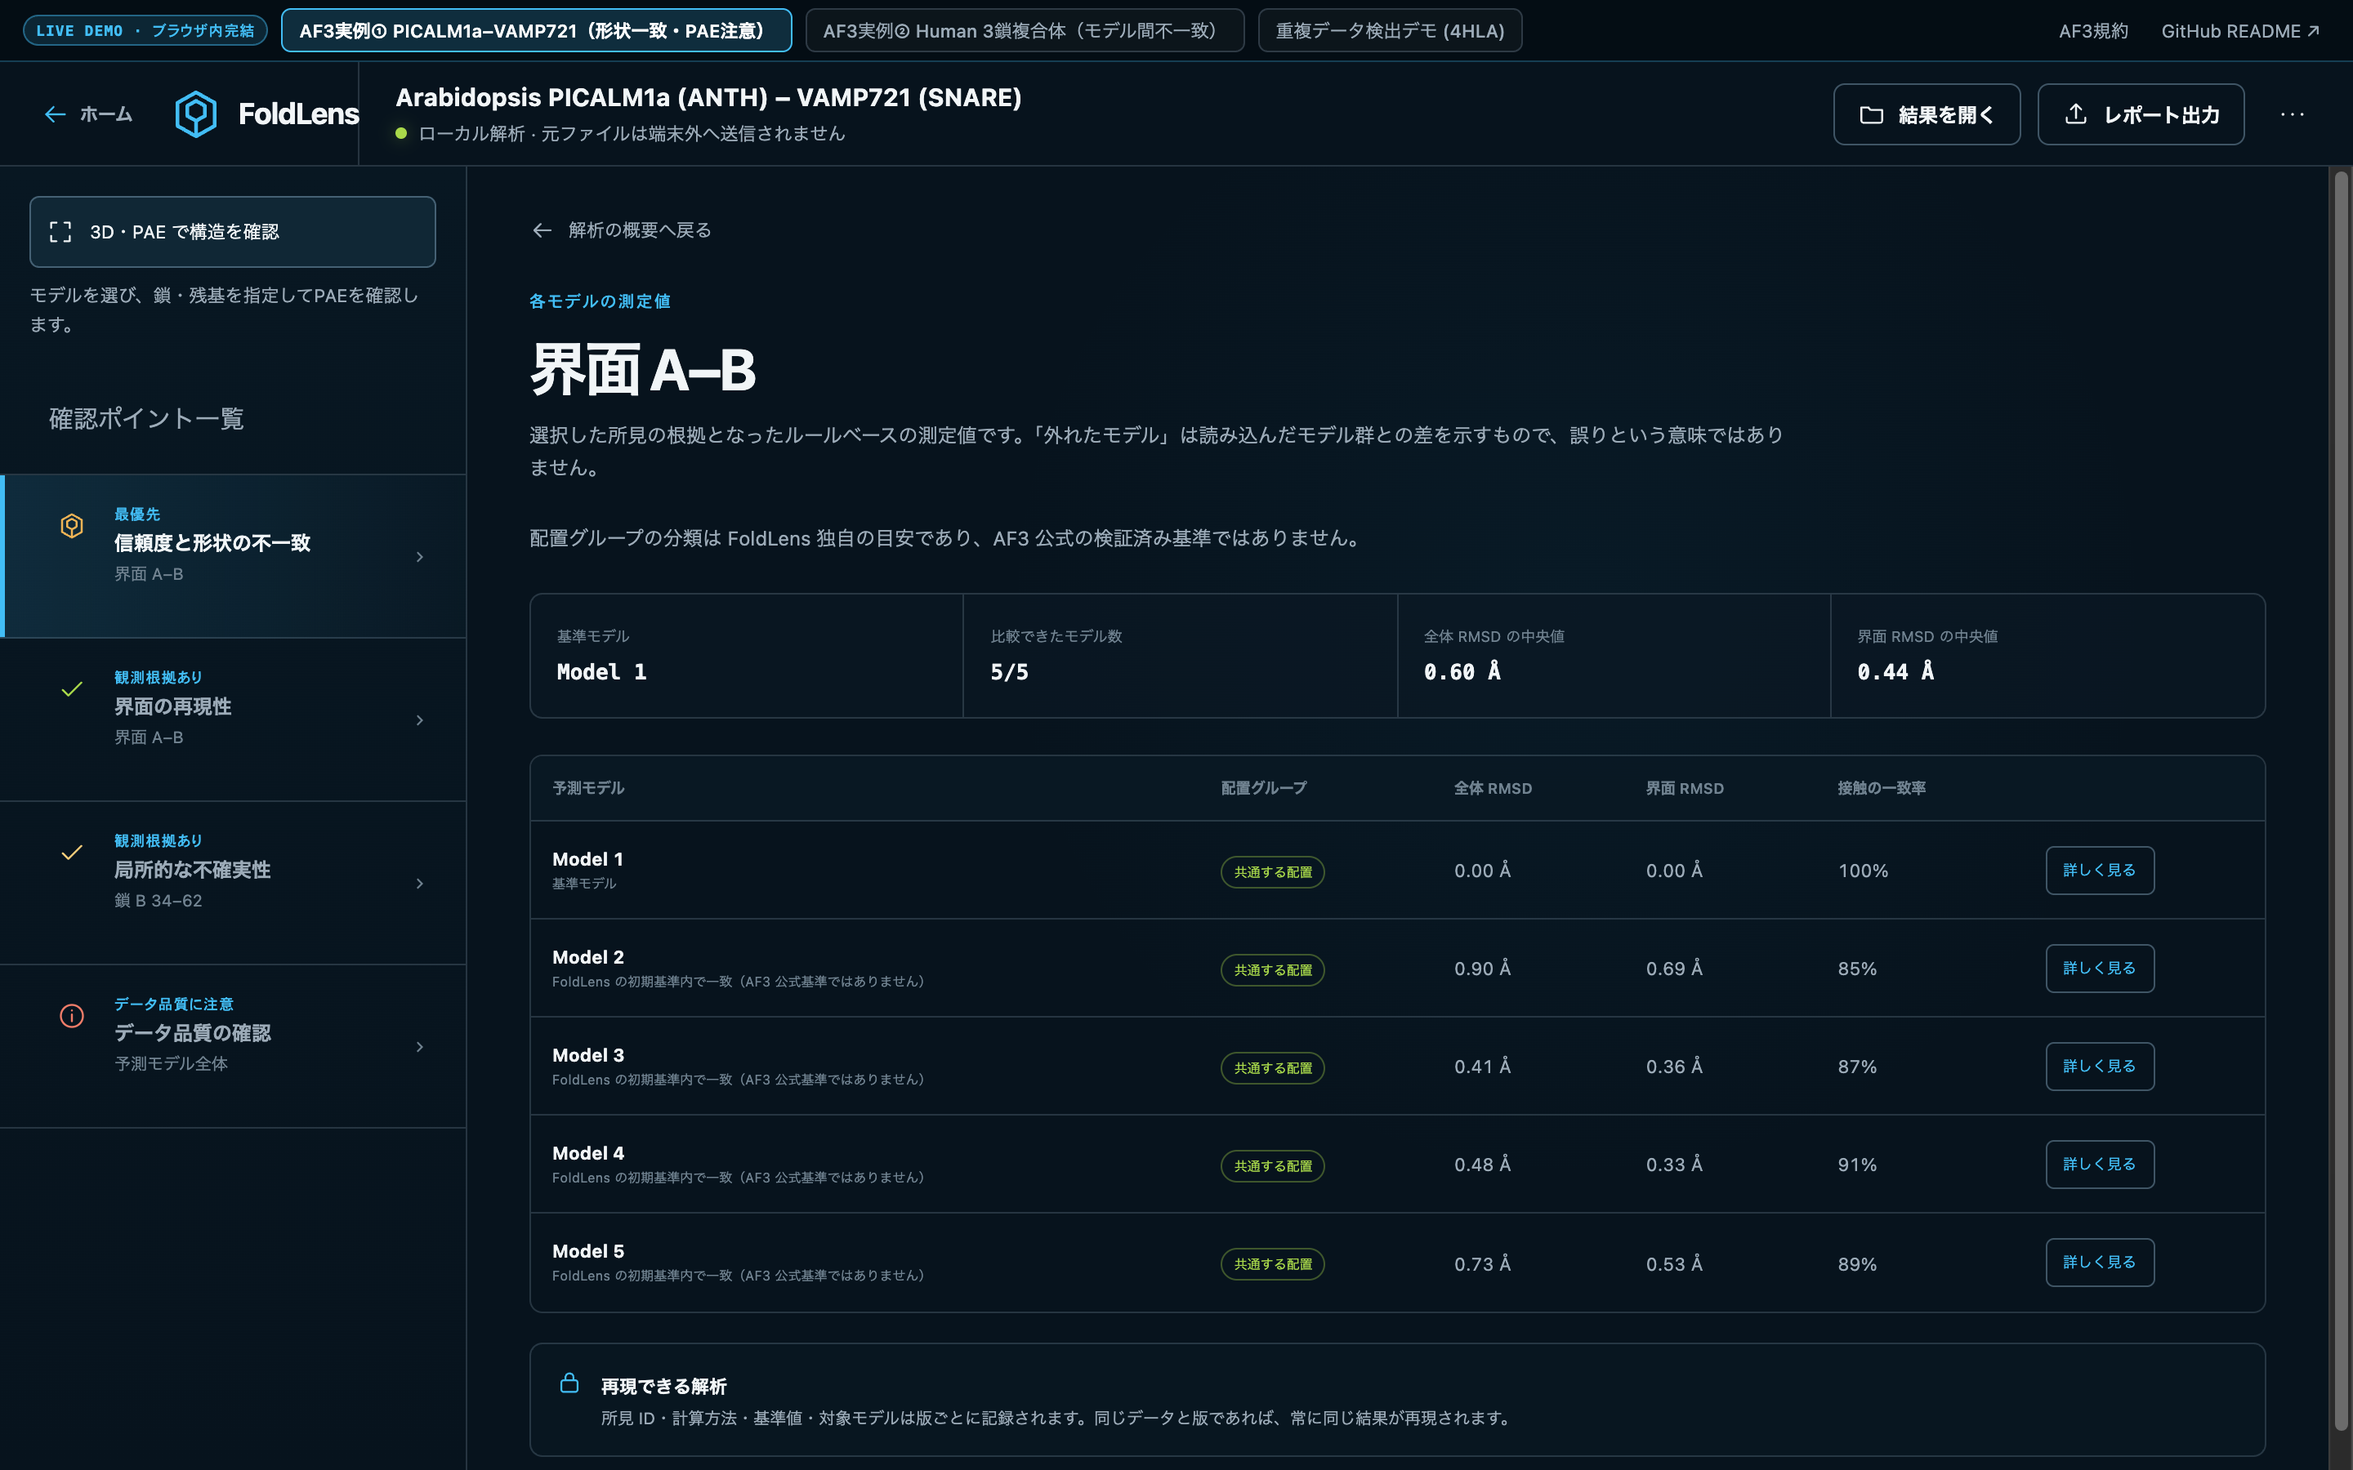
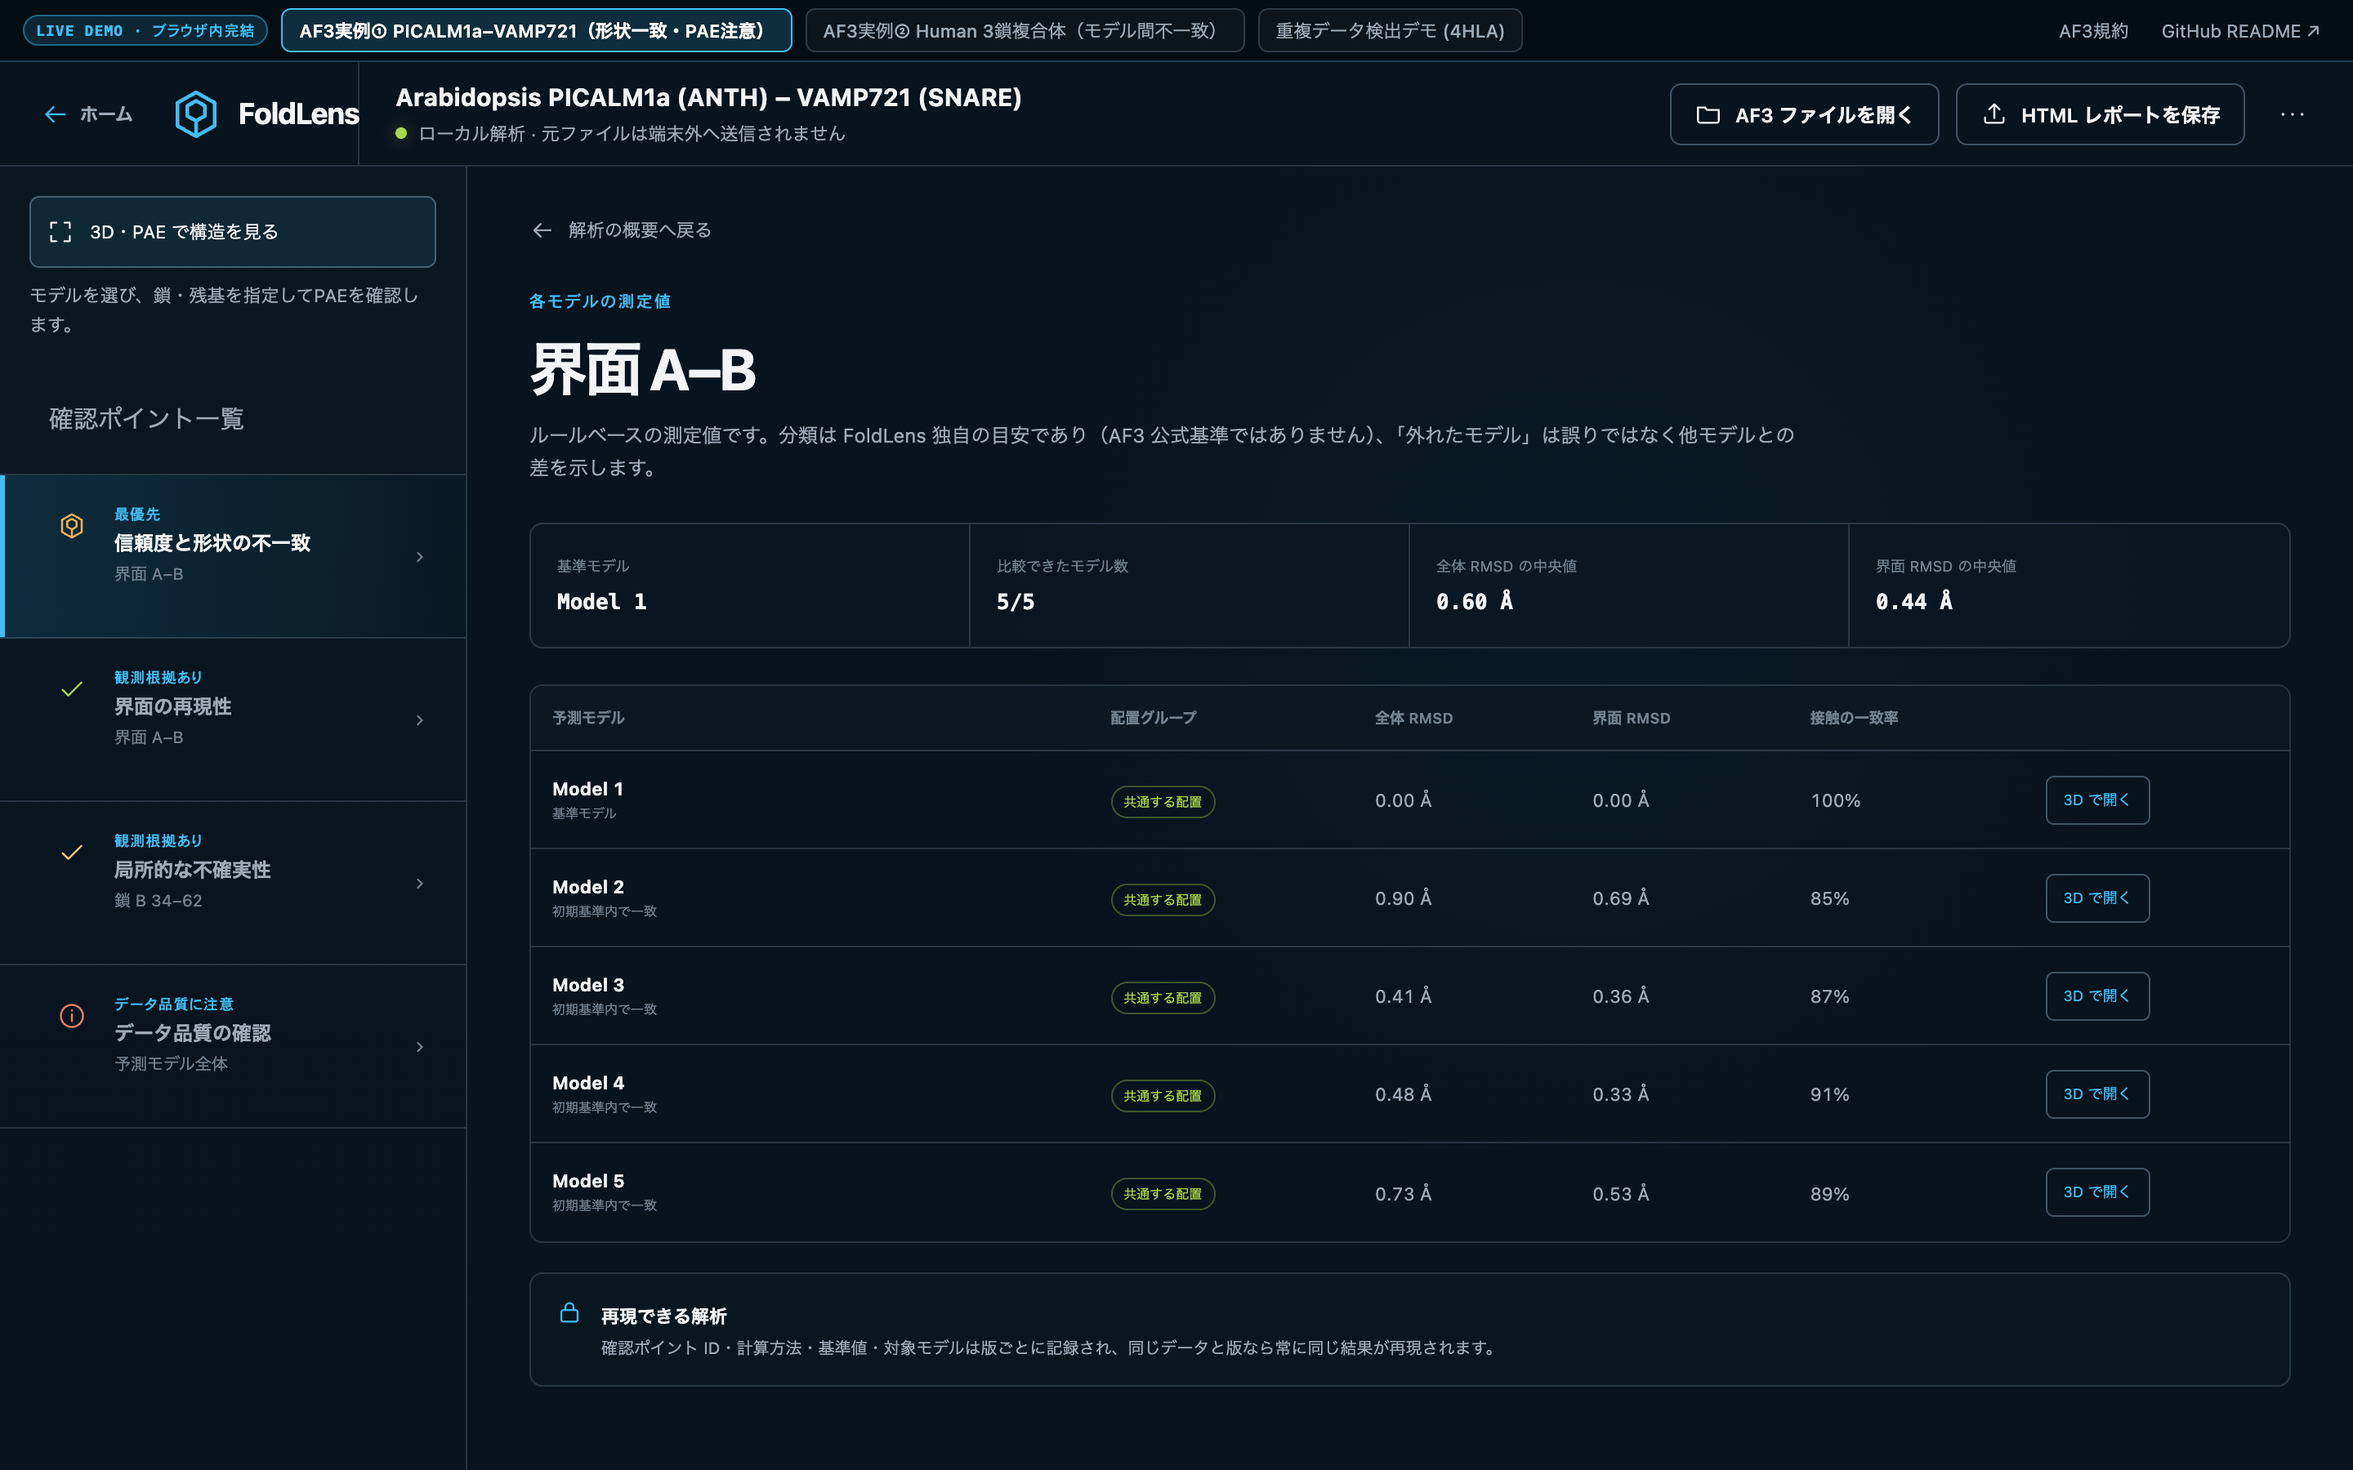
Add UX writing technical note, 8-point checklist, and tightened UI screenshots

diff --git a/docs/ux-writing-in-scientific-ai.md b/docs/ux-writing-in-scientific-ai.md
@@ -1,0 +1,128 @@
+# AI 時代の科学ソフトウェア開発における UX ライティング — 文章を「インターフェースの品質特性」として設計する
+
+> **概要**：AlphaFold 3 検証ワークスペース [FoldLens](https://github.com/Shunsuke-max/foldlens-portfolio)（[ライブデモ](https://shunsuke-max.github.io/foldlens-portfolio/)）の開発・公開を通じて得た、UX ライティングとコンテンツデザインの設計原則、実画面での改善事例、および開発工程に組み込んでいる 8 項目の文章品質チェックリストをまとめた技術ノートです。
+
+---
+
+## 1. 文章は「説明」ではなく、インターフェースそのもの
+
+ソフトウェアにおいて、文章は機能のあとに添える補足説明ではなく、**ユーザーとシステムを接続するインターフェースそのもの**です。
+
+どれほど高度なアルゴリズムや AI モデルが動いていても、利用者が次の 3 点を直感的に理解できなければ、その技術の価値は現場に届きません。
+
+1. **今ここで何ができるのか**
+2. **いま何が起きているのか**
+3. **次に何をすればよいのか**
+
+この領域は **UX ライティング（UX Writing）** や **コンテンツデザイン（Content Design）** として体系化されていますが、個人開発や研究向けツールでは後回しになりがちです。私自身、FoldLens を外部公開する過程で実際の画面を徹底的に見直し、文章の質がプロダクトの価値を直接左右することを実感しました。
+
+---
+
+## 2. 文章がプロダクトの品質を左右する 3 つの理由
+
+### ① 認知負荷を減らす
+同じ処理を実行するボタンや通知でも、書き方ひとつで理解にかかる労力が大きく変わります。
+
+| 分かりにくい表現（システム視点） | 分かりやすい表現（利用者視点） |
+| :--- | :--- |
+| 処理を実行する | 分析を開始する |
+| データの永続化 | 保存する |
+| オペレーションを中断する | キャンセルする |
+| 認証情報が無効です | もう一度ログインしてください |
+| データ取得処理が正常終了しました | データを取得しました |
+| 入力値が許容範囲外です | 1〜100 の数字を入力してください |
+
+一つひとつは小さな差ですが、画面全体で積み重なると使いやすさに決定的な差が生まれます。優れたソフトウェアでは、利用者が「操作方法の解読」ではなく**本来の研究・業務の判断**に思考力を使えます。
+
+### ② 文章の曖昧さは、設計の曖昧さを映す
+これは開発者にとって特に重要な視点です。ある機能を説明しようとして、
+
+> 「ユーザーの入力に基づいて適切な情報を統合的に提供する機能」
+
+のように抽象的な言葉しか出てこない場合、そもそも機能の目的や境界が設計段階で曖昧なままになっている可能性が高いです。反対に、
+
+> 「服用している薬の副作用を調べる」
+
+と具体的に言い切れるとき、開発者も利用者も機能の目的を共有できます。**自然で明確な文章を書くことは、プロダクト設計そのものを検証する行為**でもあります。
+
+### ③ 信頼性を左右する（特に生命科学・医療・AI 領域）
+文章に次のような違和感があると、利用者は無意識にシステム全体の精度や安全性にも疑問を抱きます。
+
+- 画面によって同じ概念の呼び方が違う
+- 直訳調や英語混じりの不自然な日本語になっている
+- エラーの原因や対処法が示されない
+- 必要以上に長い説明や重複する注意書きがある
+- 実際の機能や科学的根拠以上のことができるように書かれている
+
+創薬・医療・生命科学のように**判断の正確さと根拠の透明性が求められる領域**では、言葉の精度はそのままプロダクトの信頼性に直結します。
+
+---
+
+## 3. 実例：FoldLens の UI 推敲で何が変わったか
+
+FoldLens のライブデモを日本語化した当初、機能は正しく動いていたものの、画面上には英語混じりの直訳文・重複した注意書き・抽象的なボタン文言が残っていました。UX ライティングの観点で全画面を棚卸しした結果、次のように大きく見通しが改善しました。
+
+| 対象箇所 | 改善前 | 改善後 | 適用した観点 |
+| :--- | :--- | :--- | :--- |
+| **最重要見出し** | `この予測群で、まず確認すべきこ` / `と`（2行目で1文字孤立） | `まず確認すべきポイント` | 一読理解・レイアウト配慮 |
+| **データ品質の警告文** | `Pairwise measurementは確認できますが、現在の決定論的thresholdでは、1つの安定した配置をensemble consensusとして支持できません。` | `各モデル間の測定値は確認できますが、現在の初期基準では、過半数が一致する安定した配置は見つかりませんでした。` | 不要な英単語・直訳調の解消 |
+| **モデル比較表の行ボタン** | `詳しく見る` | `3D で開く` | 次行動の明確化 |
+| **詳細画面の界面解析ボタン** | `このinterfaceを解析` | `界面の信頼度を診断` | 専門語の整理・次行動の明確化 |
+| **ヘッダーの主要ボタン** | `結果を開く` / `レポートを書き出す` | `AF3 ファイルを開く` / `HTML レポートを保存` | 抽象の具体化 |
+| **モデル比較表の注意書き** | 2 段落＋全行に `（AF3 公式基準ではありません）` を反復 | 要点を 1 行に統合し、各行は `初期基準内で一致` / `初期基準外` に簡潔化 | 冗長文の削ぎ落とし（情報量の適正化） |
+| **PAE 軸と説明** | `縦軸 = scored residue · 横軸 = alignment reference` | `縦軸：評価対象の残基 ／ 横軸：整列の基準残基` | 利用者視点・専門用語の日本語化 |
+
+実際の画面は [FoldLens ライブデモ](https://shunsuke-max.github.io/foldlens-portfolio/) でそのまま確認できます。
+
+---
+
+## 4. 開発者側の文章と、AI 時代における言語設計の重要性
+
+文章の品質が問われるのは UI だけではありません。
+
+| 開発領域 | 文章が果たす役割 |
+| :--- | :--- |
+| **README** | プロジェクトの目的・検証結果・限界を短時間で伝える |
+| **要件定義** | 何を実現し、何を対象外とするかを明確にする |
+| **変数名・関数名** | コードの意図と責任範囲を伝える |
+| **API ドキュメント** | 正しい利用方法と制約を明確にする |
+| **Issue / Pull Request** | 解決する問題と変更理由を共有する |
+| **エラーメッセージ** | 問題の原因と次の対処法を案内する |
+| **テストケース** | 期待する仕様を検証可能な形で明文化する |
+
+AI によってコード生成コストが下がるほど、開発の**入口**と**出口**にある言語の重要性はむしろ高まります。
+
+```mermaid
+flowchart LR
+    A["1. 課題の理解"] --> B["2. 課題と要件の言語化<br/>(入口の言語)"]
+    B --> C["3. 人間・AIによる実装"]
+    C --> D["4. UI・文章・ドキュメント<br/>(出口の言語)"]
+    D --> E["5. ユーザーへの価値提供"]
+```
+
+入口の言語化が曖昧なら意図しないものが作られ、出口の文章が分かりにくければ、せっかく作った技術も正しく使われません。
+
+---
+
+## 5. 開発工程に組み込む 8 つの文章品質基準
+
+私は現在、コードの自動テストや CI と同様に、UI 文言・README・ドキュメントに対しても以下の 8 項目でチェックする運用を取り入れています（再利用可能なチェックリスト：[ux-writing-checklist.md](ux-writing-checklist.md)）。
+
+1. **一読して意味が理解できるか**
+2. **不必要な専門用語・未翻訳語を使っていないか**
+3. **抽象的な表現を具体化できないか**
+4. **同じ概念に同じ用語を使っているか**
+5. **ユーザーが次に取るべき行動が明確か**
+6. **実際の機能・科学的限界と説明が一致しているか**
+7. **削除しても意味が変わらない冗長な文章がないか**
+8. **開発者の都合ではなく、利用者の視点で書かれているか**
+
+---
+
+## おわりに
+
+文章を良くすることは、単に「流暢な日本語にする」ことではありません。流暢でも意味が曖昧な文章や、実態以上に大きく見せる文章は、かえってプロダクトの信頼を損ないます。
+
+**文章の自然さ、意味の正確さ、概念の一貫性、情報量の適切さ。**
+
+この 4 つを、コードの可読性・保守性やテストカバレッジと同じ**ソフトウェアの品質特性**として設計・レビューし続けることを、自分の開発原則に据えています。

diff --git a/docs/ux-writing-checklist.md b/docs/ux-writing-checklist.md
@@ -1,0 +1,15 @@
+# UX ライティング・文章品質チェックリスト
+
+UI 文言・エラーメッセージ・README・設計ドキュメントを公開／マージする前に確認する 8 項目です。  
+**4 つの品質軸**：文章の自然さ ／ 意味の正確さ ／ 概念の一貫性 ／ 情報量の適切さ
+
+- [ ] **1. 一読理解**：初見の読者が 1 回読んで引っかかりなく意味を理解できるか
+- [ ] **2. 不要な専門用語の排除**：読者に不要な専門語・社内語・未翻訳の英単語が混じっていないか（必要な専門語には初出で短い補足があるか）
+- [ ] **3. 抽象の具体化**：「処理を実行」「適切に提供」などの抽象表現を、具体的な行動・結果に言い換えられないか
+- [ ] **4. 用語の一貫性**：同じ概念に対して、画面・セクション・ドキュメント全体で同じ用語を使っているか
+- [ ] **5. 次行動の明確化**：ボタン文言やエラー文を見ただけで「押すと何が起きるか／次に何をすればよいか」が分かるか
+- [ ] **6. 実装・事実との一致**：現在の機能・科学的スコープ・制約と説明が厳密に一致しているか（過剰主張がないか）
+- [ ] **7. 冗長文の削ぎ落とし**：削除しても意味が変わらない重複説明や回りくどい修飾語が残っていないか
+- [ ] **8. 利用者視点**：システム内部の都合ではなく、利用者の目的達成の視点で書かれているか
+
+背景と FoldLens での具体的な改善例は [ux-writing-in-scientific-ai.md](ux-writing-in-scientific-ai.md) を参照してください。

diff --git a/README.en.md b/README.en.md
@@ -169,7 +169,7 @@ flowchart TD
 
 I approached FoldLens not as an LLM wrapper exercise, but as a scientific software and data-engineering challenge: **what quantitative evidence do life scientists actually need to trust an AI-assisted structural review, and where must deterministic computation end and experimental validation begin?**
 
-While using AI coding agents as iterative engineering partners, I owned the core architectural and scientific decisions: enforcing the local-first privacy boundary, introducing duplicate-coordinate checks and versioned deterministic rules, requiring evidence grounding with explicit falsification conditions, and structuring metered service economics.
+While using AI coding agents as iterative engineering partners, I owned the core architectural and scientific decisions: enforcing the local-first privacy boundary, introducing duplicate-coordinate checks and versioned deterministic rules, requiring evidence grounding with explicit falsification conditions, structuring metered service economics, and auditing UI copy with an explicit UX-writing standard ([Design Note (JP)](docs/ux-writing-in-scientific-ai.md) · [8-Point Checklist (JP)](docs/ux-writing-checklist.md)).
 
 ---
 
